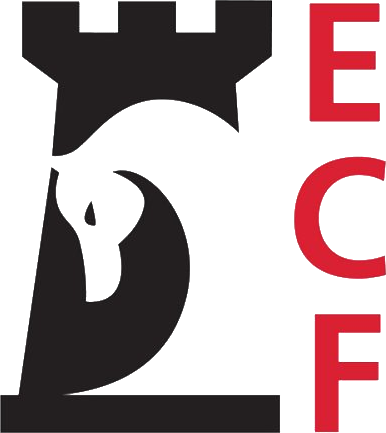
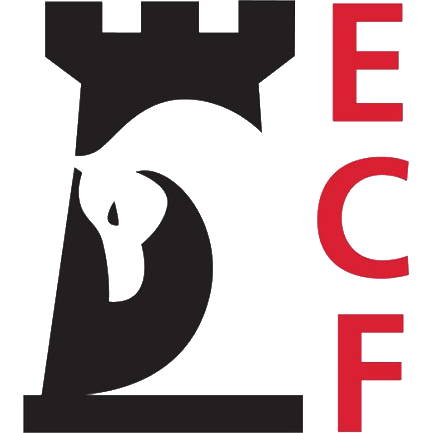
Updated thumbnails to be square

diff --git a/articles/CWF/journalism.liveinterviews.md b/articles/CWF/journalism.liveinterviews.md
@@ -1,0 +1,5 @@
+# ... the live interview?
+
+The recent Trump interview broadcast on HBO has been an unqualified success for the network. Drawing in over 10 million views on YouTube in only a few days, it has been extensively covered by news networks and decsribed as "mind-numbing", "deluded", and "a train-wreck". The interview, Jonathan Swan, a journalist of ten years, has also been widely praised. The Evening Standard has offered a featurette branding him a "hero". CNN has devoted a video interview to analysing "the secret to exposing lies".
+
+Swan's methodology is not that deep. CNN offers a nice summary, beneath the heavy padding in its article - Swan asked basic follow-up questions. This is not exactly a big secret revolutiionising the world of journlism, in fact it's almost the only shared trait of good reporters. Yet there is much commendable about Swan's performance. Guiding Donald Trump to talk about confront specific issues is a nigh-on impossible task, yet Swan achieved it better than most. Using a self-proclaimed framework of 'Who? What? How? No.', Swan's systematic response to every Trump response probed and coaxed about some measure of the President's justification to every wild claim he has shouted about over the past few weeks. From justification comes understanding, critique, and accountability. Having now understood Trump's point of view, seasoned experts invited onto the mainstream news channels can summarise Trump's argument and explain its flaws, rolling back the facade of credibility. Ultimately, Swan demonstrated a balance between 
